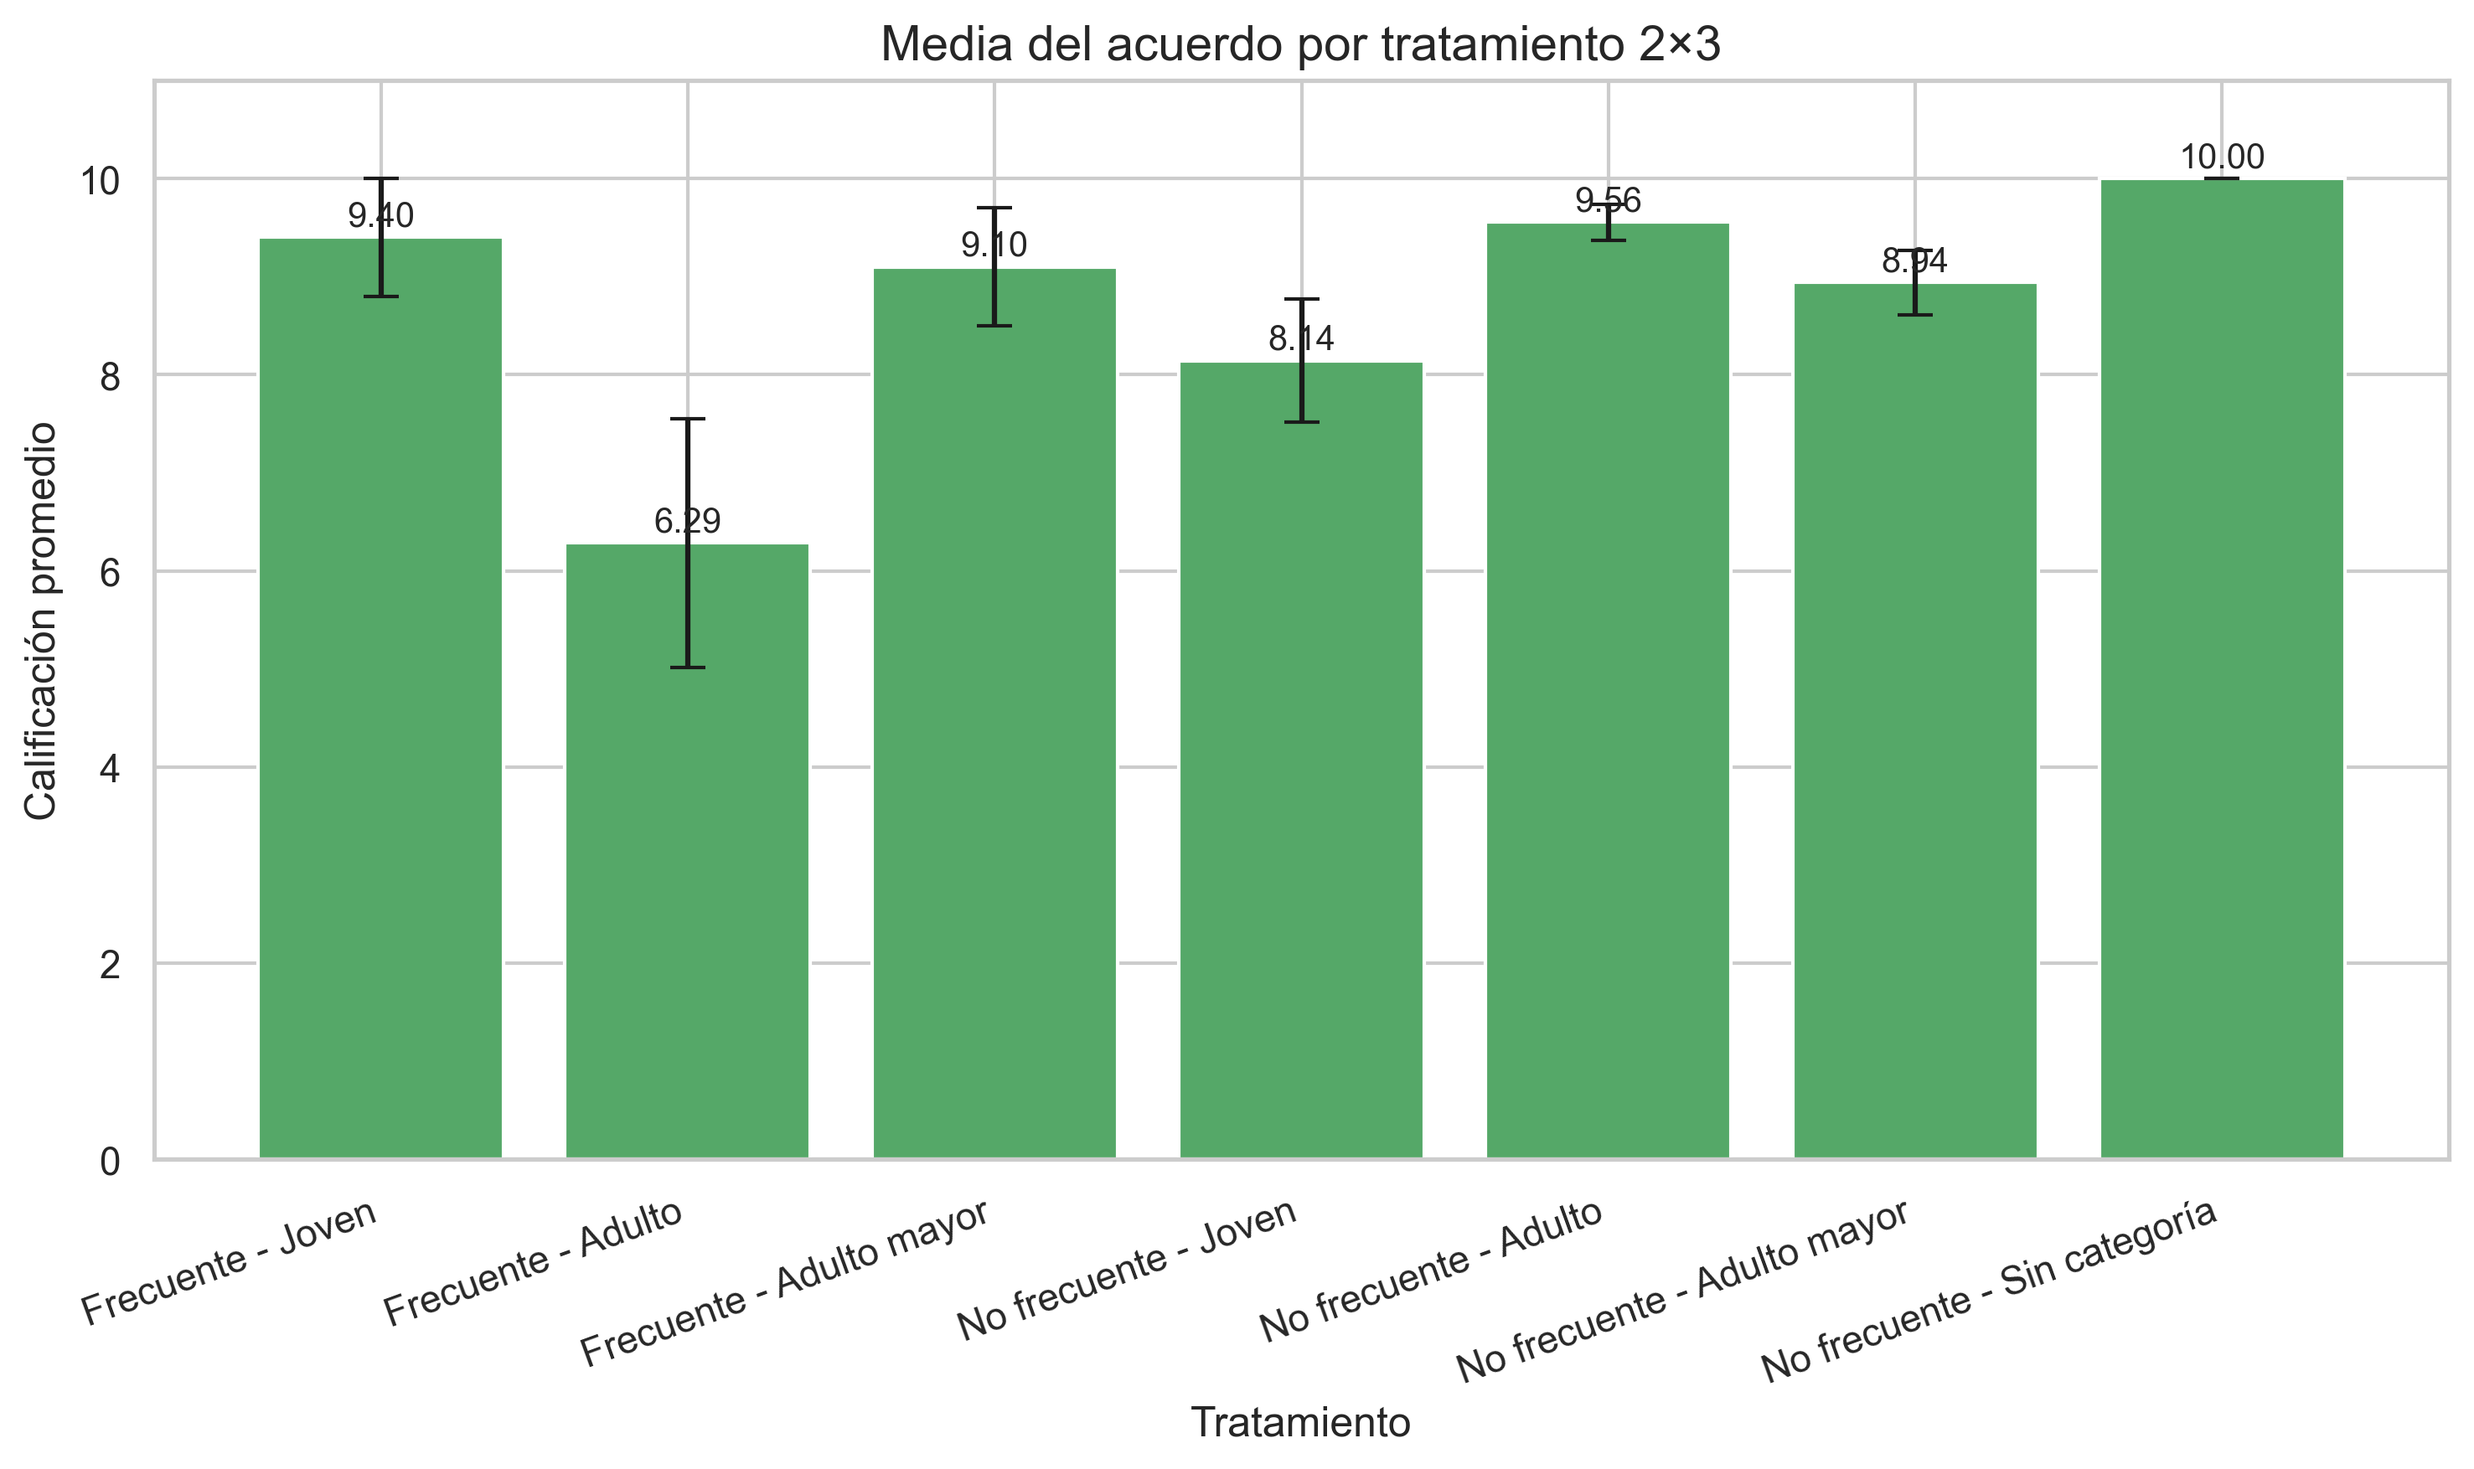
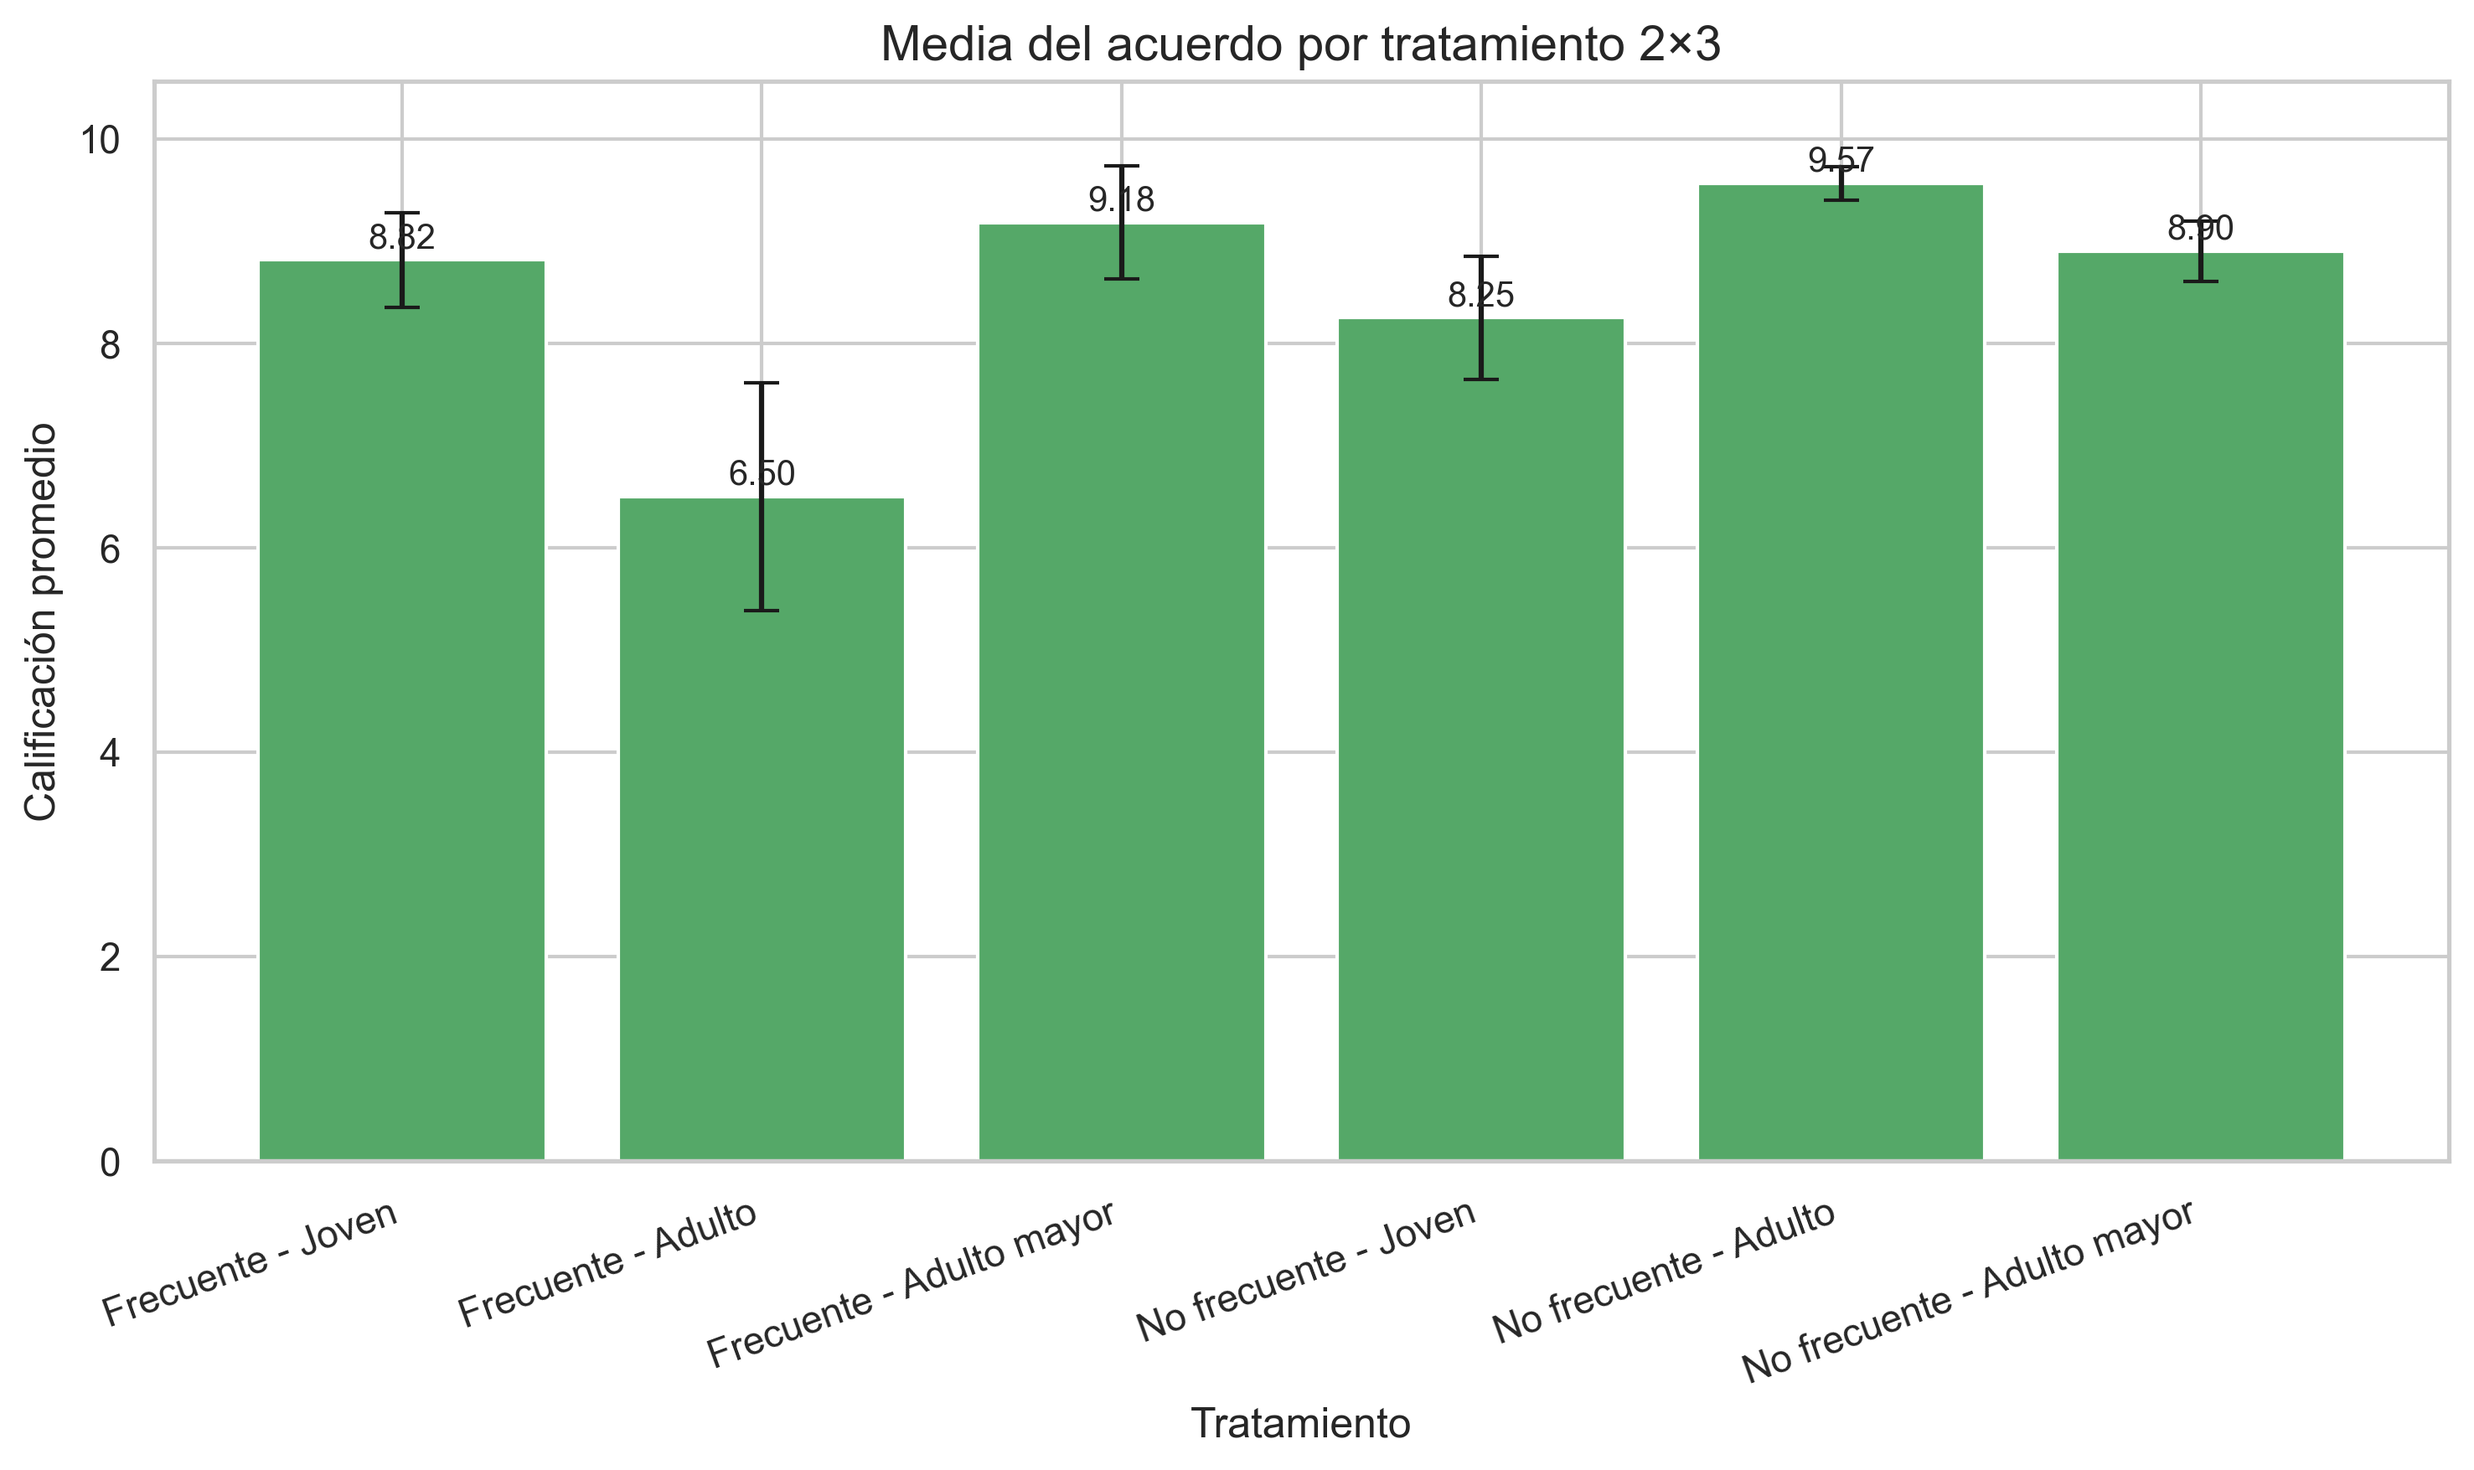
encuesta actualizada

diff --git a/reporte_estadistico.md b/reporte_estadistico.md
@@ -2,7 +2,7 @@
 
 ## 1. Descripción general de la muestra
 
-- Tamaño de la muestra: 89 encuestados.
+- Tamaño de la muestra: 110 encuestados.
 - Variables de interés:
   - Grado de acuerdo con la ampliación (1–10)
   - Percepción de impacto en la economía (1–10)
@@ -13,72 +13,72 @@
 
 ### 2.1. Grado de acuerdo con la ampliación
 
-- n = 89
+- n = 110
 - Media = 8.79
 - Mediana = 10.00
 - Moda = 10.00
-- Desviación estándar = 2.07
+- Desviación estándar = 2.00
 - Cuartiles: Q1 = 8.00, Q2 = 10.00, Q3 = 10.00
 
 ### 2.2. Impacto en la economía
 
-- n = 89
-- Media = 8.45
+- n = 110
+- Media = 8.50
 - Mediana = 9.00
 - Moda = 10.00
-- Desviación estándar = 2.04
+- Desviación estándar = 1.95
 - Cuartiles: Q1 = 7.00, Q2 = 9.00, Q3 = 10.00
 
 ### 2.3. Percepción de necesidad
 
-- n = 89
-- Media = 8.24
+- n = 110
+- Media = 8.13
 - Mediana = 9.00
 - Moda = 10.00
-- Desviación estándar = 2.20
+- Desviación estándar = 2.21
 - Cuartiles: Q1 = 7.00, Q2 = 9.00, Q3 = 10.00
 
 ## 3. Intervalos de confianza
 
 ### 3.1. Media del grado de acuerdo con la ampliación
 
-- n = 89
+- n = 110
 - Media = 8.79
-- IC 95%: [8.35, 9.22]
+- IC 95%: [8.41, 9.17]
 
-Con un 95 % de confianza, el verdadero promedio poblacional de acuerdo con la ampliación del aeropuerto se encuentra entre 8.35 y 9.22.
+Con un 95 % de confianza, el verdadero promedio poblacional de acuerdo con la ampliación del aeropuerto se encuentra entre 8.41 y 9.17.
 
 ### 3.2. Proporción de personas a favor de la ampliación
 
 - Definición de "a favor": calificación ≥ 6.
-- n = 89
+- n = 110
 - Proporción muestral = 0.91
-- IC 95%: [0.85, 0.97]
+- IC 95%: [0.86, 0.96]
 
-Con un 95 % de confianza, la proporción real de personas a favor de la ampliación se ubica entre 0.85 y 0.97.
+Con un 95 % de confianza, la proporción real de personas a favor de la ampliación se ubica entre 0.86 y 0.96.
 
 ## 4. Prueba de hipótesis principal
 
 - Hipótesis:
   - H0: μ ≤ 5.00
   - H1: μ > 5.00
-- Estadístico t = 17.26
+- Estadístico t = 19.92
 - p-valor (cola derecha) = 0.0000
 - Conclusión: Se rechaza la hipótesis nula y se concluye que la media poblacional supera a 5.00.
 
 ## 5. ANOVA factorial 2×3 (Frecuencia de viaje × Grupo etario)
 
 ```
-                                       sum_sq    df         F    PR(>F)
-C(frecuencia_viaje)                  6.857059   1.0  1.804665  0.182856
-C(grupo_edad)                        3.504156   2.0  0.461118  0.632203
-C(frecuencia_viaje):C(grupo_edad)   53.047401   2.0  6.980601  0.001587
-Residual                           311.569655  82.0       NaN       NaN
+                                       sum_sq     df         F    PR(>F)
+C(frecuencia_viaje)                  6.891955    1.0  1.929196  0.167814
+C(grupo_edad)                        2.362949    2.0  0.330718  0.719160
+C(frecuencia_viaje):C(grupo_edad)   51.656560    2.0  7.229853  0.001148
+Residual                           371.534657  104.0       NaN       NaN
 ```
 
 Modelo ANOVA ajustado correctamente.
 
-Interpretación: No se encontró evidencia significativa para el efecto principal de la frecuencia de viaje (p = 0.183). No se encontró evidencia significativa para el efecto principal del grupo etario (p = 0.632). Se encontró evidencia de que la interacción entre frecuencia de viaje y grupo etario es significativa (p = 0.002).
+Interpretación: No se encontró evidencia significativa para el efecto principal de la frecuencia de viaje (p = 0.168). No se encontró evidencia significativa para el efecto principal del grupo etario (p = 0.719). Se encontró evidencia de que la interacción entre frecuencia de viaje y grupo etario es significativa (p = 0.001).
 
 ## 6. Gráficas
 
@@ -93,7 +93,7 @@ Interpretación: No se encontró evidencia significativa para el efecto principa
 ## 7. Conclusiones generales
 
 - El grado de acuerdo con la ampliación presenta una media de 8.79, lo que sugiere una valoración favorable.
-- Las percepciones sobre el impacto económico (8.45) y la necesidad de la obra (8.24) también muestran niveles altos en la escala de 1 a 10.
+- Las percepciones sobre el impacto económico (8.50) y la necesidad de la obra (8.13) también muestran niveles altos en la escala de 1 a 10.
 - La prueba t con hipótesis H0: μ ≤ 5.00 arroja p = 0.0000, lo que respalda la afirmación de que la media supera el umbral..
-- No se encontró evidencia significativa para el efecto principal de la frecuencia de viaje (p = 0.183). No se encontró evidencia significativa para el efecto principal del grupo etario (p = 0.632). Se encontró evidencia de que la interacción entre frecuencia de viaje y grupo etario es significativa (p = 0.002).
+- No se encontró evidencia significativa para el efecto principal de la frecuencia de viaje (p = 0.168). No se encontró evidencia significativa para el efecto principal del grupo etario (p = 0.719). Se encontró evidencia de que la interacción entre frecuencia de viaje y grupo etario es significativa (p = 0.001).
 
